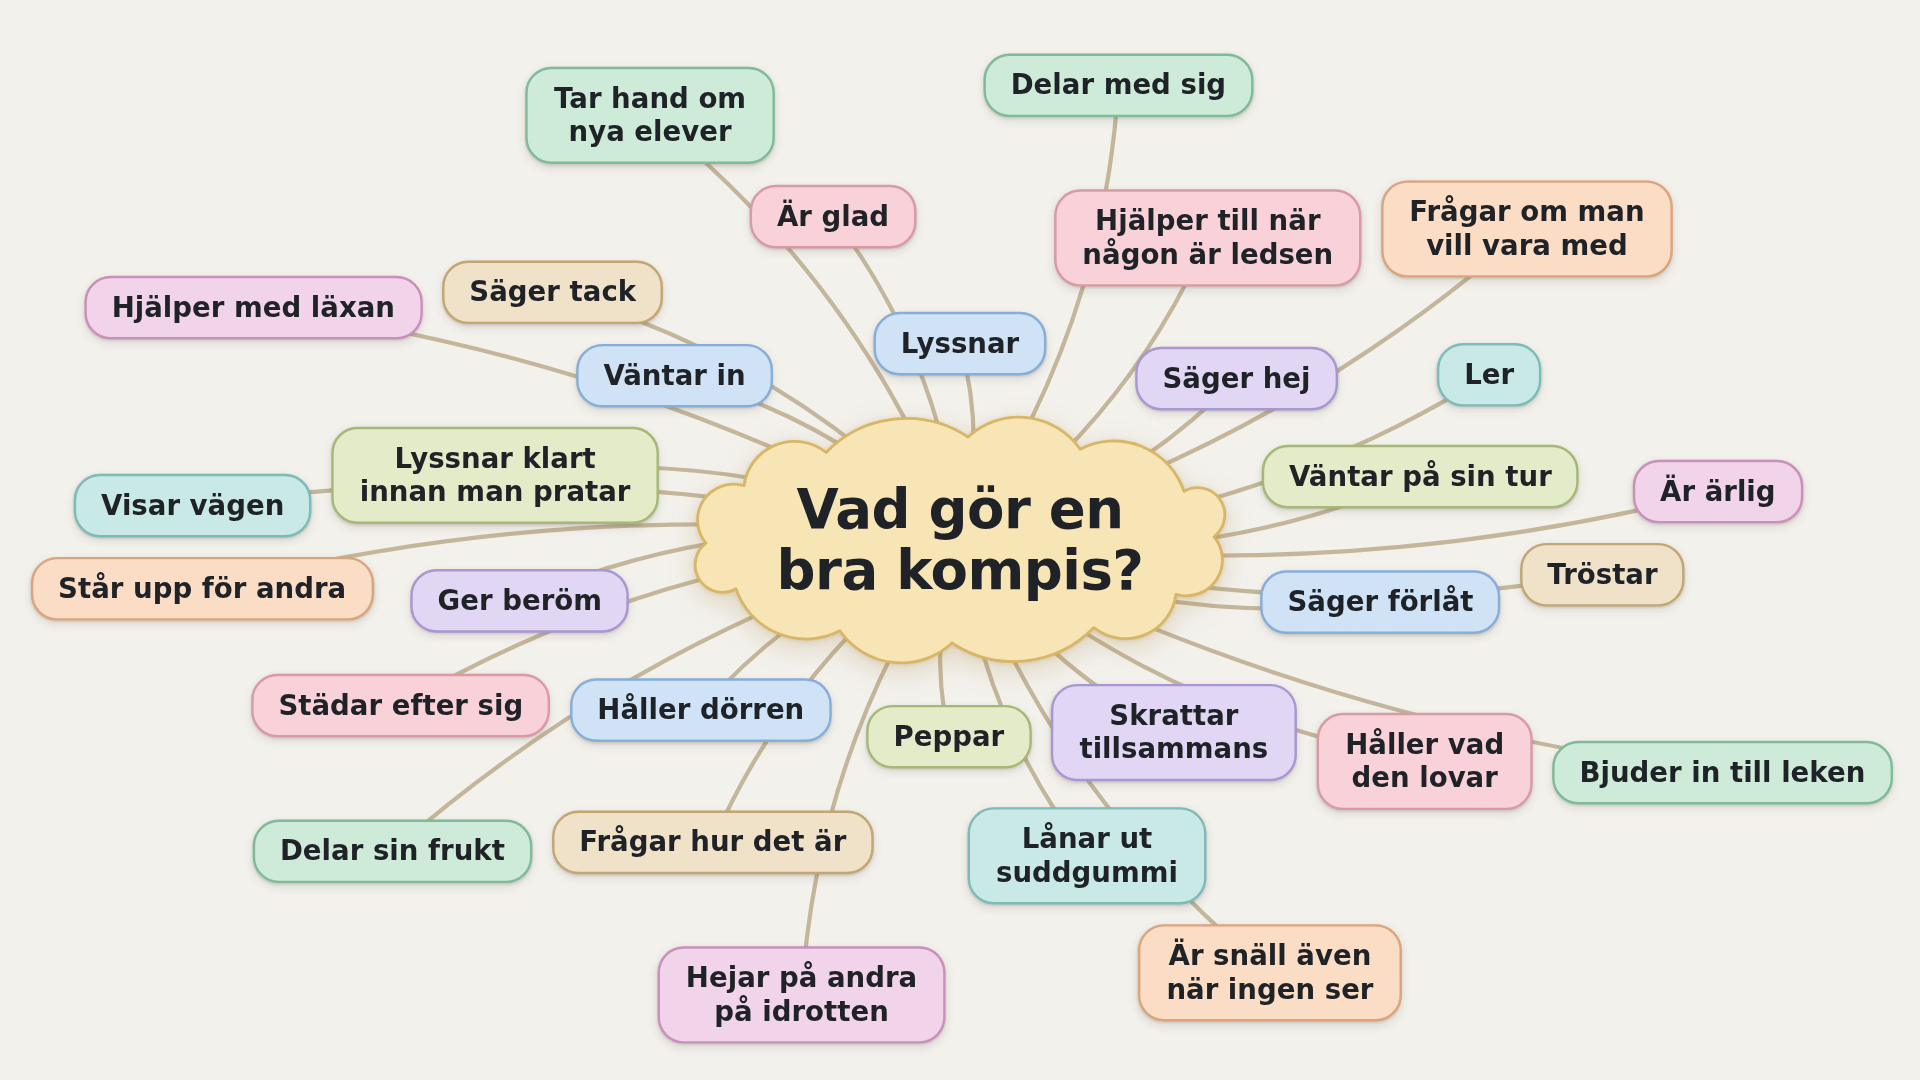
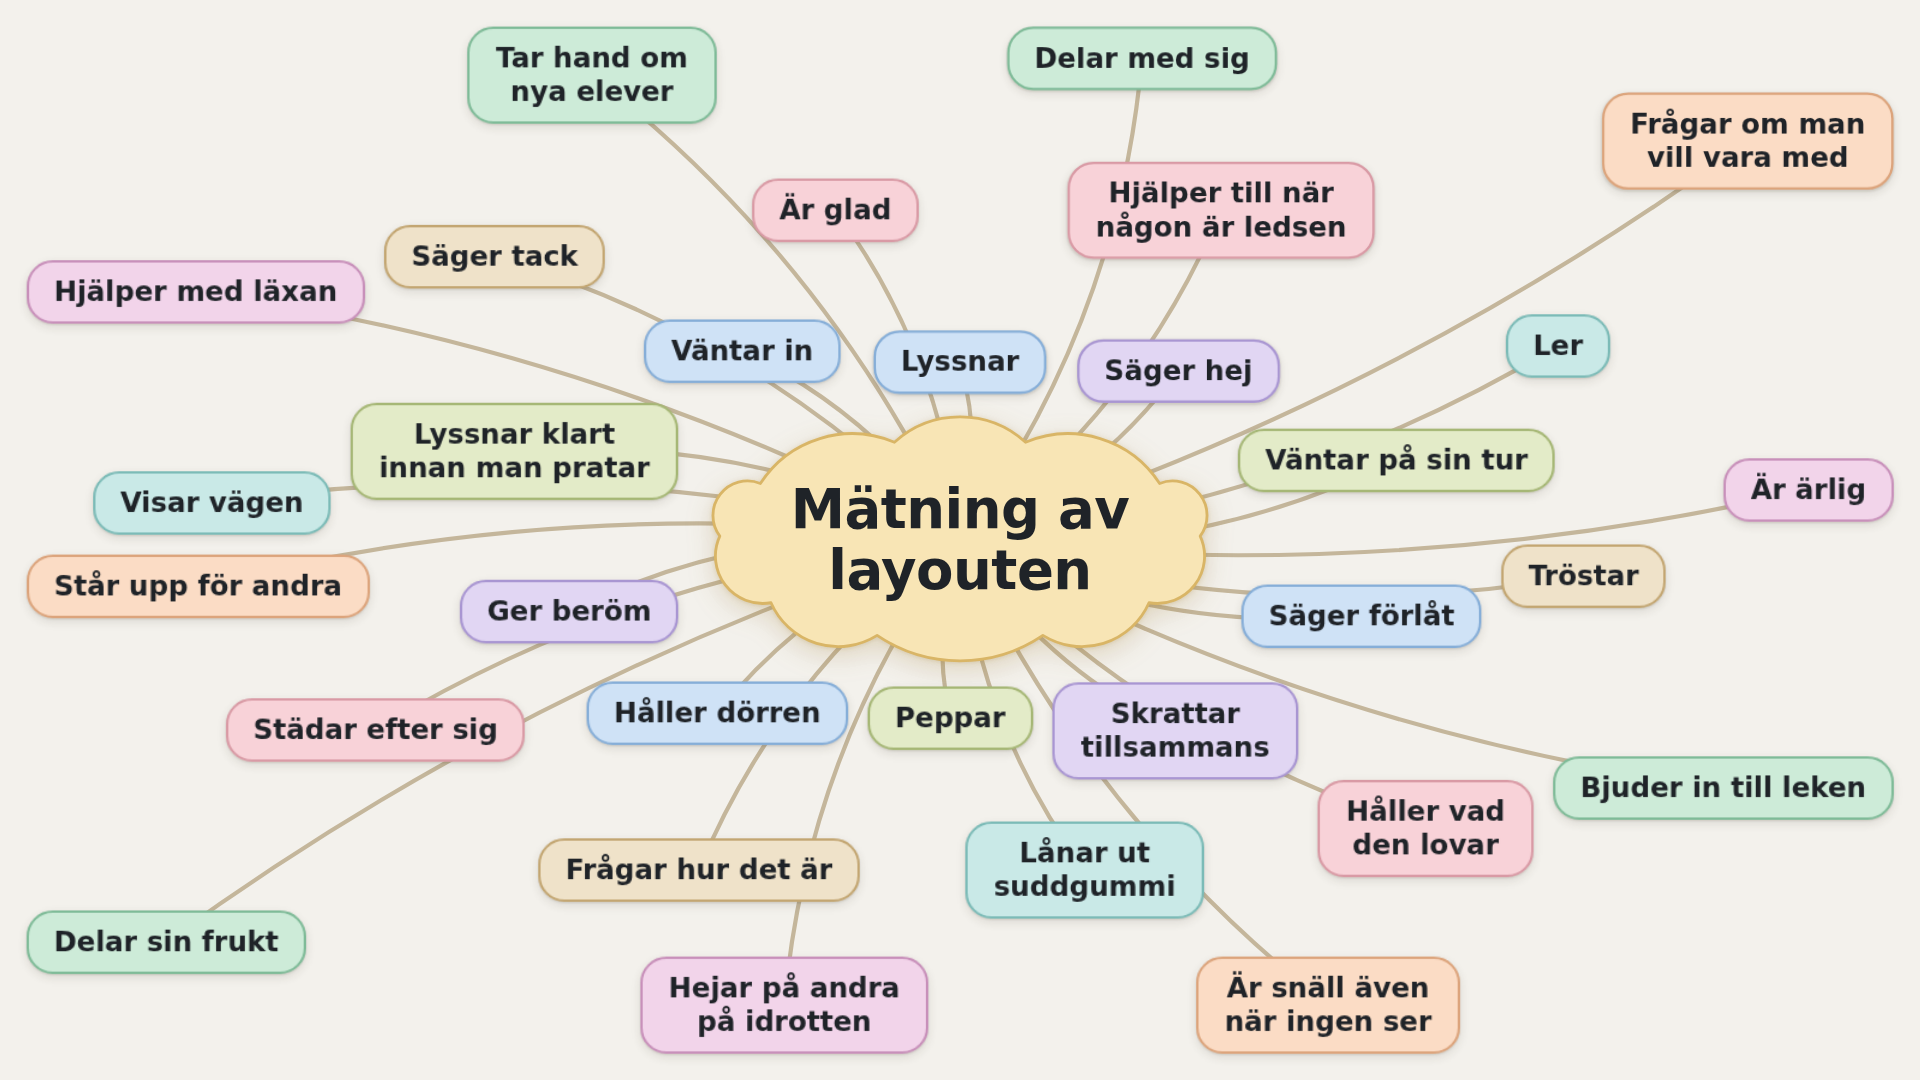
issue #53: Tankekarta — moln i mitten, bubblor runt om, live på elevskärmen, flera kartor, utskrift A3/A4
Nytt verktyg (karta, group "tools", order 30, inte fäst). Tom yta: inga
förifyllda kartor, rubriker eller bubblor; rubriken har bara en grå
platshållare. Flera kartor per klass (ny, byt namn, kopiera, ta bort med
bekräftelse). Live via sync-bussen (karta:state) och den ENDAST LOKALA
classes/{cid}/karta — aldrig Firestore.

Layout (js/lib/karta-layout.js): virtuell scen med konstant yta, så samma
bildformat ger samma bild i alla storlekar. Bubblorna står medurs i
skapandeordning på 1–3 ringar, var och en utflyttad längs sin egen stråle
efter sin storlek; avslappning tar bort överlapp; texten krymper bara om
det behövs. Mjuka Bézierkurvor, organiskt moln, pastellpalett (AA),
rörelse av med prefers-reduced-motion.

Säker borttagning: × på bubblan (eller Delete) + Ångra som ångrar allt
(tillagd, borttagen, flyttad, ändrad, Töm tavlan, Ordna automatiskt).
Dubbelklick ändrar texten, bubblor kan dras.

Utskrift A3/A4 liggande/stående: eget ark med 15 mm vit padding, @page
margin 0, färger med print-color-adjust: exact. Verifierat med
printToPDF (CSS-sidstorlek, marginal 0 och standardmarginaler): en sida,
alla bubblor inom ytan. docs/test-karta.mjs: layout, kontrast, lokal
lagring.

Changed region(s): [[0.0, 0.0, 1.0, 0.9778], [0.4062, 0.4583, 0.5938, 0.55]]

diff --git a/js/lib/karta-layout.js b/js/lib/karta-layout.js
@@ -11,9 +11,10 @@
  *   1. Bubblorna står i skapandeordning, medurs från toppen, med jämna
  *      vinklar på en, två eller tre elliptiska ringar runt molnet (högst
  *      9 → en ring). Grannar i vinkel står på olika ringar, så en yttre
- *      bubblas kurva går mellan två inre. Ringarna anpassas efter de
- *      faktiska bubblornas bredd/höjd: närmast molnet utan att röra det,
- *      längst ut utan att gå utanför scenen.
+ *      bubblas kurva går mellan två inre. Varje bubbla flyttas ut längs
+ *      sin egen stråle efter sin egen bredd/höjd: innersta ringen närmast
+ *      molnet utan att röra det, yttersta längst ut utan att gå utanför
+ *      scenen — så fungerar det även i smala (stående) format.
  *   2. En avslappning knuffar isär det som fortfarande överlappar (längs
  *      den axel där överlappet är minst), ut ur molnets ellips och in i
  *      scenen. Fästa bubblor (dragna av läraren) står still.
@@ -117,33 +118,43 @@ function placeRings({ w, h, cloud, bubbles, rings, margin, gap }) {
   const pattern = RING_PATTERN[R] ?? RING_PATTERN[1];
   const ringOf = free.map((_, i) => pattern[i % pattern.length]);
 
-  const maxW = Math.max(...free.map((b) => b.w));
-  const maxH = Math.max(...free.map((b) => b.h));
-  const rxOut = Math.max(0, w / 2 - margin - maxW / 2);
-  const ryOut = Math.max(0, h / 2 - margin - maxH / 2);
   // Hur långt ut den yttersta ringen går: få bubblor → närmare molnet.
   const reach = R === 1 ? Math.min(1, 0.35 + n * 0.08) : Math.min(1, 0.5 + n * 0.025);
 
-  const radii = [];
-  for (let r = 0; r < R; r++) {
-    const ring = free.filter((_, i) => ringOf[i] === r);
-    const rw = Math.max(...ring.map((b) => b.w));
-    const rh = Math.max(...ring.map((b) => b.h));
-    const rxIn = cloud.rx + gap + rw / 2;
-    const ryIn = cloud.ry + gap + rh / 2;
-    const t = R === 1 ? reach : (r / (R - 1)) * reach;
-    radii.push({
-      rx: Math.min(rxOut, rxIn) + Math.max(0, rxOut - rxIn) * t,
-      ry: Math.min(ryOut, ryIn) + Math.max(0, ryOut - ryIn) * t,
-    });
-  }
-
-  // Jämna vinklar i skapandeordning, medurs från toppen.
+  // Jämna vinklar i skapandeordning, medurs från toppen. Varje bubbla
+  // flyttas ut längs sin egen stråle: från närmast molnet (utan att röra
+  // det) till längst ut i scenen — efter SIN bredd och höjd, så att breda
+  // bubblor inte hamnar i molnet och smala inte står onödigt långt ut.
   free.forEach((it, i) => {
     const a = -Math.PI / 2 + (i * 2 * Math.PI) / n;
-    const { rx, ry } = radii[ringOf[i]];
-    it.x = cx + rx * Math.cos(a);
-    it.y = cy + ry * Math.sin(a);
+    // Strålen följer scenens form (en ellips i scenens proportioner).
+    let dx = Math.cos(a) * w;
+    let dy = Math.sin(a) * h;
+    const len = Math.hypot(dx, dy) || 1;
+    dx /= len;
+    dy /= len;
+    const hw = it.w / 2;
+    const hh = it.h / 2;
+    const tMax = Math.min(
+      Math.abs(dx) > 1e-9 ? (w / 2 - margin - hw) / Math.abs(dx) : Infinity,
+      Math.abs(dy) > 1e-9 ? (h / 2 - margin - hh) / Math.abs(dy) : Infinity,
+    );
+    // Närmast molnet: halvera fram till första t där rektangeln går fri.
+    let lo = 0;
+    let hi = Math.max(tMax, 1);
+    const at = (t) => ({ x: cx + dx * t, y: cy + dy * t, w: it.w, h: it.h });
+    if (hitsCloud(at(hi), cx, cy, cloud, gap)) lo = hi;
+    else {
+      for (let k = 0; k < 24; k++) {
+        const mid = (lo + hi) / 2;
+        if (hitsCloud(at(mid), cx, cy, cloud, gap)) lo = mid; else hi = mid;
+      }
+    }
+    const tMin = hi;
+    const f = R === 1 ? reach : (ringOf[i] / (R - 1)) * reach;
+    const t = tMin >= tMax ? tMax : tMin + (tMax - tMin) * f;
+    it.x = cx + dx * t;
+    it.y = cy + dy * t;
   });
   return items;
 }
